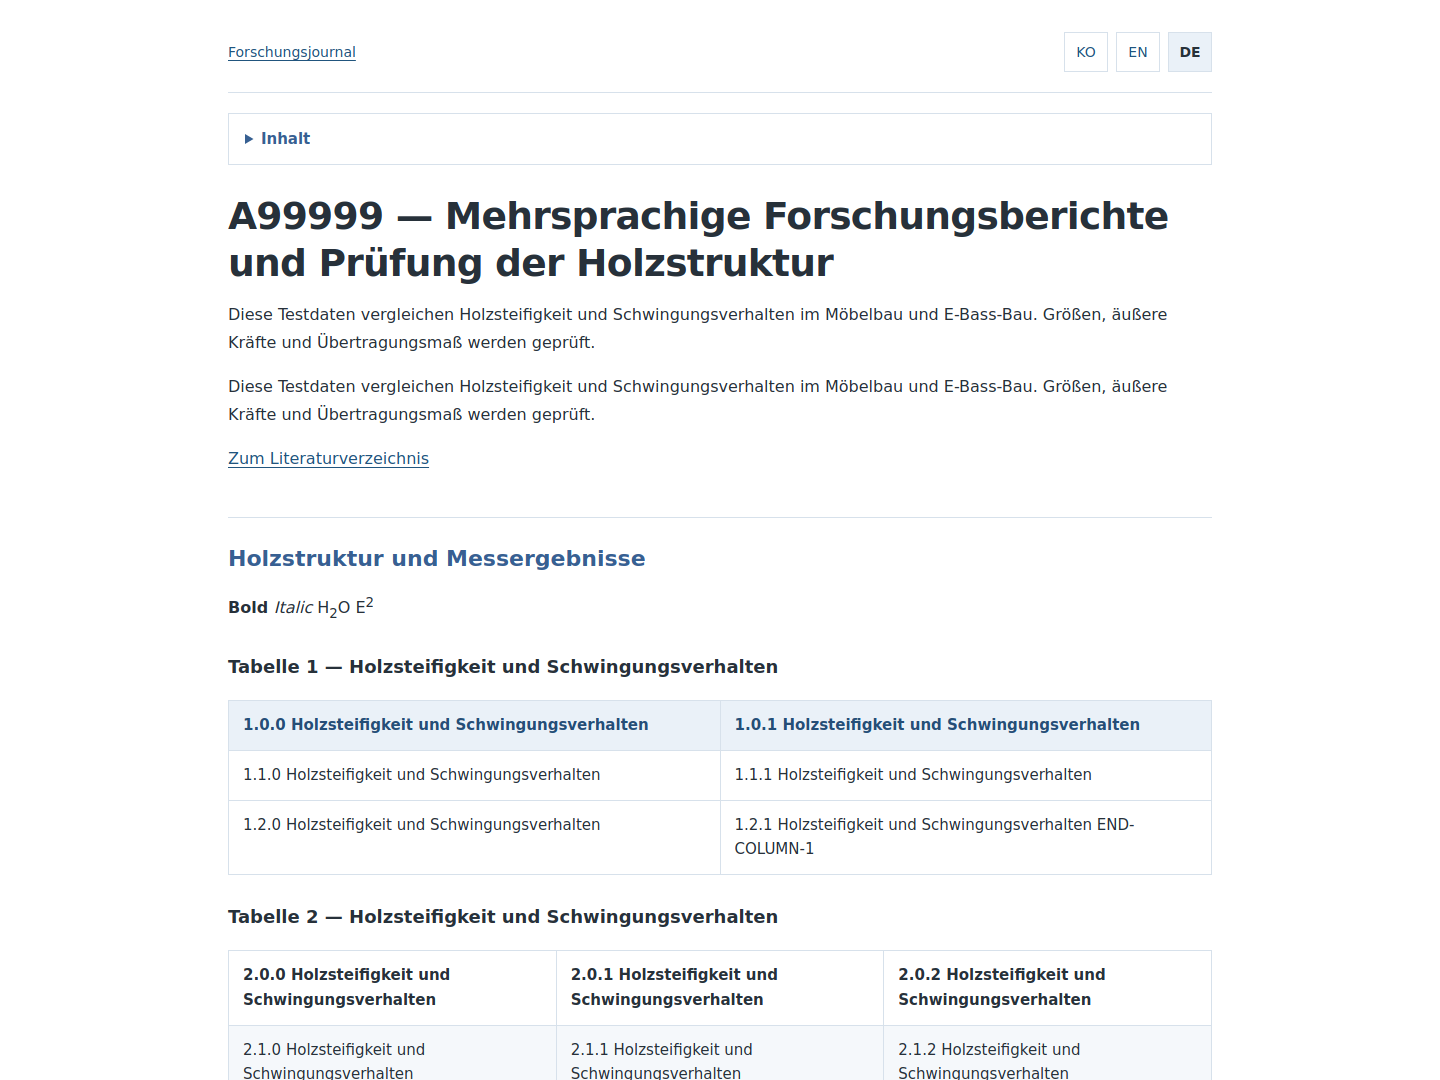
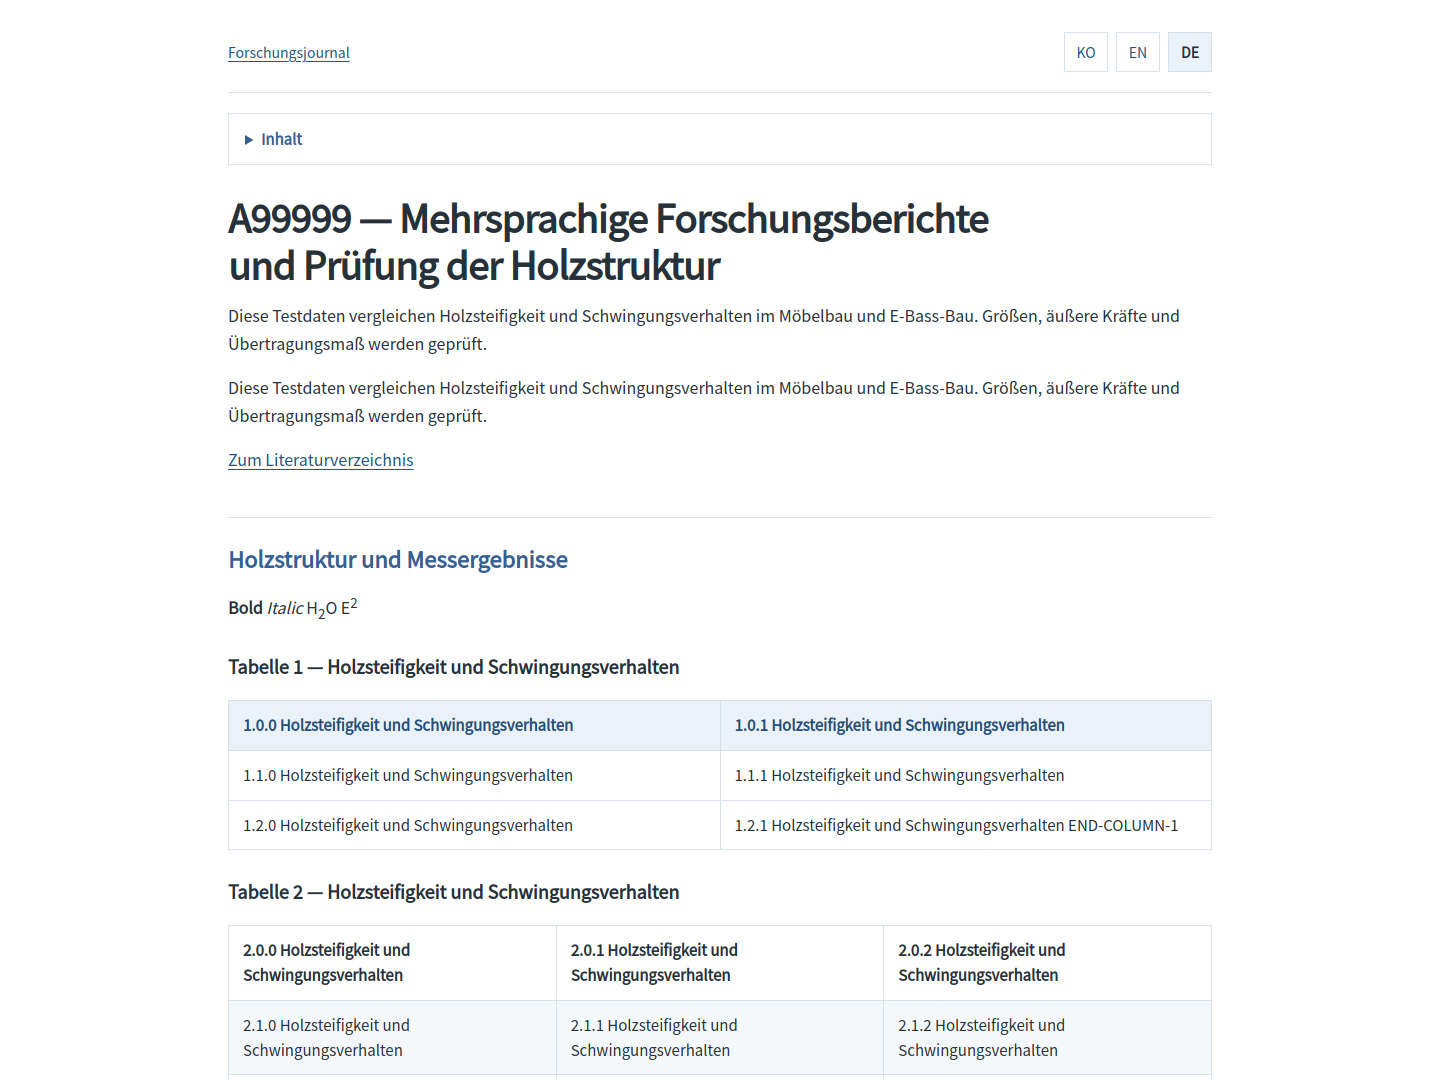
Use explicit Korean font fallback and await lazy images during browser navigation
Resolve the CI WenQuanYi fallback without weakening font checks. Decode real lazy images between language clicks. Final local Chromium matrix passes all 54 checks; 28 Python contracts pass; published research remains unchanged.

diff --git a/tools/research_docx.py b/tools/research_docx.py
@@ -465,6 +465,9 @@ def build(manifest_path, root, output, check_external=False):
     # Reuse B03's established responsive layout without coupling source articles.
     css = (root / 'research/B03/b03.css').read_text(encoding='utf-8')
     css += '\narticle img{max-width:100%;height:auto}ul,ol{padding-left:2em}h4,h5,h6{break-after:avoid}\n'
+    # Linux commonly installs Noto under its CJK family name. List it explicitly
+    # so generic sans-serif fallback does not select an unrelated CJK face.
+    css += 'body{font-family:Arial,"Noto Sans KR","Noto Sans CJK KR","Malgun Gothic","Apple SD Gothic Neo",sans-serif}\n'
     # Generated pages only: do not change the published B03 stylesheet. Screen
     # tables keep readable columns; print retains the existing page-width fit.
     css += '@media screen{.table-scroll>table{min-width:calc(var(--docx-columns,1)*10rem)}.table-scroll>table.comparison{min-width:max(660px,calc(var(--docx-columns,1)*10rem))}}\n'

diff --git a/tools/test_research_docx.py b/tools/test_research_docx.py
@@ -112,6 +112,13 @@ class ResearchTests(unittest.TestCase):
         self.assertIn('@media screen{', (self.output / 'article.css').read_text(encoding='utf-8'))
         self.assertEqual((self.repo / 'research/B03/b03.css').read_bytes(), original_css)
 
+    def test_explicit_korean_font_fallback_preserves_published_css(self):
+        original_css = (self.repo / 'research/B03/b03.css').read_bytes()
+        build(self.manifest_path, self.repo, self.output)
+        css = (self.output / 'article.css').read_text(encoding='utf-8')
+        self.assertIn('"Noto Sans KR","Noto Sans CJK KR","Malgun Gothic","Apple SD Gothic Neo",sans-serif', css)
+        self.assertEqual((self.repo / 'research/B03/b03.css').read_bytes(), original_css)
+
     def test_empty_editorial_field(self):
         self.manifest['en']['excerpt'] = ' '; self.save()
         self.assertEqual(self.run_cli('--output', self.output), 1)

diff --git a/docs/validation/research-docx-2026-10-08.md b/docs/validation/research-docx-2026-10-08.md
@@ -27,7 +27,7 @@ metadata and the 26-entry index remain byte-identical. A04 is neither reused
 as test data nor rewritten. Its earlier private conversion evidence remains
 historical evidence, not a new A04 browser-validation claim.
 
-## Browser finding and correction
+## Browser findings and corrections
 
 The initial Chromium pass found no missing glyph, image decoding, link or
 horizontal page-overflow failures. Pixel inspection nevertheless exposed a
@@ -48,12 +48,24 @@ Before: [dense mobile table](research-docx-2026-10-08/before-ko-mobile-dense-tab
 After: [readable columns](research-docx-2026-10-08/ko-mobile-wide-table.png) and
 [reachable final column](research-docx-2026-10-08/ko-mobile-wide-table-end.png).
 
+The first remote browser run, [37769493618](https://github.com/raven-deadwire/RavenForge-Luthier-Intelligence/actions/runs/37769493618),
+passed all three 27-test Python jobs and all English/German browser cases, but
+failed the Korean font-selection checks at both sizes. Its preserved artifact
+`11546638244` was downloaded and SHA-256 verified. Chromium 131.0.6778.33 on
+Ubuntu selected **WenQuanYi Zen Hei** despite installed Noto CJK fonts, because
+the inherited CSS did not list Noto's Linux family name. The screenshot showed
+readable Hangul, so this was an unintended font fallback, **not proven missing
+glyphs**. Generated CSS now explicitly lists Noto Sans CJK KR and the existing
+Korean/macOS alternatives. The browser font requirement was retained, and an
+additional Python regression protects the explicit family list and original
+published CSS. That first CI browser failure is superseded, not reported as PASS.
+
 ## Results by evidence type
 
 | Evidence | Result |
 | --- | --- |
 | Existing converter / negative-publication contracts before correction | 26/26 PASS, local Linux; not browser tests |
-| Converter contracts after correction | 27/27 PASS, local Linux |
+| Converter contracts after both corrections | 28/28 PASS, local Linux |
 | Actual Chromium, KO/EN/DE × 1440×1080 and 390×844 | 6/6 combinations, 54/54 grouped checks PASS |
 | Table content/order in browser | All 9 tables per language match every expected cell |
 | Actual Korean font usage | CDP confirms Noto Sans CJK KR glyphs in title, body, table and references at both sizes |
@@ -75,7 +87,12 @@ report and screenshots as an Actions artifact.
 One intermediate post-fix run was invalidated by the archive guard when the
 research README was edited while it was running. It is **not** acceptance
 evidence. The final fresh run after edits completed passed all checks and the
-unchanged-archive assertion.
+unchanged-archive assertion. A later local iteration passed all 54 assertions
+but caught image requests aborted by the test's own rapid language switching.
+The runner now decodes every actual image before the next language click,
+rather than relying on network-idle timing;
+request failures remain fatal and include their browser error text. That
+superseded iteration is not counted as acceptance evidence.
 
 ## Reproduction and continuous checks
 

diff --git a/research/README.md b/research/README.md
@@ -184,7 +184,9 @@ the production converter without `--publish`. Its local HTTP server overlays the
 temporary article at the real site path, leaving existing research untouched.
 Three languages at 1440×1080 and 390×844 cover titles, text, tables, images,
 bibliography, bookmarks, TOC clicks, language switching and existing local links.
-Korean glyphs must actually use a Korean-capable platform font (Chromium CDP).
+Korean glyphs must actually use an explicitly configured Korean platform font
+(Chromium CDP). Generated CSS includes Noto Sans CJK KR, as commonly named on
+Linux, alongside Noto Sans KR, Malgun Gothic and Apple SD Gothic Neo.
 Image decoding, byte hashes, proportions, page overflow, table cell width and
 access to the final column are checked. Generated screen tables reserve 10rem
 per column and scroll horizontally; existing article CSS and print layout stay
